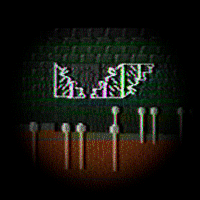
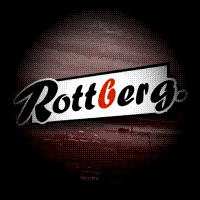
Overhaul
too much stuff to mention cause i'm lazy but most notably added page for household felony

diff --git a/householdfelony.html b/householdfelony.html
@@ -1,0 +1,35 @@
+<!DOCTYPE html>
+<html>
+
+	<head>
+		<title>It's a bit garish though, isn't it?</title>
+		<link rel="stylesheet" href="styles.css">
+	</head>
+	
+	<body>
+		<h1>Unusual shapes and colours, videogameesque e-trinkets.
+		<h2>You have entered Mira's internet dugout.</h2>
+		<h1>Household Felony</h1>
+		<p>Household Felony was one of the first and probably most major of all the projects I have worked on,<br> it initially started life as
+		nothing more than just a comedic parody of Petscop, in similar nature to Sheriff Domestic, but then it rapidly evolved into a pseudo
+		spiritual successor of sorts,<br> telling an unrelated story with concepts and ideas established in Petscop already.</p>
+		
+		<p><iframe width="560" height="315" src="https://www.youtube.com/embed/GsgFNGaJc_A" title="YouTube video player" frameborder="0" allow="accelerometer; autoplay; clipboard-write; encrypted-media; gyroscope; picture-in-picture; web-share" allowfullscreen></iframe><br>
+		<i>I personally believe episode 11 was the best of them all, so I like introducing people to the series with it.</i></p>
+		
+		<p>Despite my history of denouncing any mention of Household Felony, I've sort of come to my senses as of late, and began appreciating<br>
+		what it did for me, and just that it's not nearly as bad as I thought it was, it occupies a permenant space in my head, even long after
+		cancelling it.</p>
+		<p>You can watch the entirety of the series (and everything that came after) here:<br>
+		<iframe width="560" height="315" src="https://www.youtube.com/embed/videoseries?list=PLTjBkXmr7H-at1qJRI31Vn9Y-zWiP7eP7" title="YouTube video player" frameborder="0" allow="accelerometer; autoplay; clipboard-write; encrypted-media; gyroscope; picture-in-picture; web-share" allowfullscreen></iframe></p>
+		<p>Who knows? Maybe it'll come back.</p>
+		
+		<p><img src="img/pal.gif" alt="Pal" align="center"></p>
+		<p><a href="index.html">Return to Main Page</p></a>
+		
+		<p align="center" style="padding-top: 64px;">
+		<img src="img/mirahedron.png" alt="Mira" align="center">
+		</p>
+	</body>
+
+</html>

diff --git a/rottberg.html b/rottberg.html
@@ -9,8 +9,10 @@
 	<body>
 		<h1>Unusual shapes and colours, videogameesque e-trinkets.
 		<h2>You have entered Mira's internet dugout.</h2>
-		<h1>Rottberg</h1>
-		<p>Rottberg is my passion project and main focus at the moment.</p>
+		<p align="center" style="padding-top: 64px;">
+		<img src="img/rottberglogo.png" alt="Rottberg" align="center">
+		</p>
+		<p>Rottberg is confusing.</p>
 		<p>Rottberg's plot focuses on a young man named Richard Arvids, devastated still by the disappearance of his father nearly 20 years ago, he searches for<br>
 		answers in the a very unlikely place, the video game that his father was developing for the playstation in 1998. This investigation would later lead<br>
 		to the strangest and most stressful years of his life.</p>
@@ -20,7 +22,7 @@
 		<br>After finishing Sheriff Domestic in Real, I returned to the drawing board and began Rottberg again, this time with a much<br>
 		higher scope and production quality, bringing in the talents of my closest friends, and my partner to create something truly special.</p>
 		
-		<p>Unfortunately, Rottberg is nowhere near finished right now, so I am unable to show much, you are however able to view and archive of every<br>
+		<p>Unfortunately, Rottberg is nowhere near finished right now, so I am unable to show much, you are however able to view an archive of every<br>
 		early iteration of it, to give you an idea of what you're getting into.</p>
 		<p><iframe width="560" height="315" src="https://www.youtube.com/embed/saIwyHgxBmY" title="YouTube video player" frameborder="0" allow="accelerometer; autoplay; clipboard-write; encrypted-media; gyroscope; picture-in-picture; web-share" allowfullscreen></iframe><br>
 		<i>I don't look very highly on a lot of the old Rottberg videos, and I assure you<br> The new version will be much higher quality.</i></p>

diff --git a/index.html b/index.html
@@ -28,11 +28,11 @@
 		<tr>
 		<td><img src="img/crazylarry.png" alt="Crazy Larry" align="right" style="padding-right: 80px;"></td>
 		<td><a href="larry.html">Crazy Larry</a><br>Absurd Top 5 videos among other things.<br>Also my noise music handle.</td> 
-		</tr>
 		<tr>
-		<td align="right"><a href="vidsarchive.html">Old Videos Archive</a><br>???</td> 
-		<td><img src="img/vidsarchive.png" alt="Old Videos Archive" alt="Thumbnail" style="padding-left: 80px;"></td>
+		<td align="right"><a href="householdfelony.html">Household Felony</a><br>An ambitious parody of "Petscop", ended prematurely.</td> 
+		<td><img src="img/householdfelony.png" alt="Household Felony" alt="Thumbnail" style="padding-left: 80px;"></td>
 		</tr>
+
 		</table>
 		
 		<p align="center" style="padding-top: 64px;">
